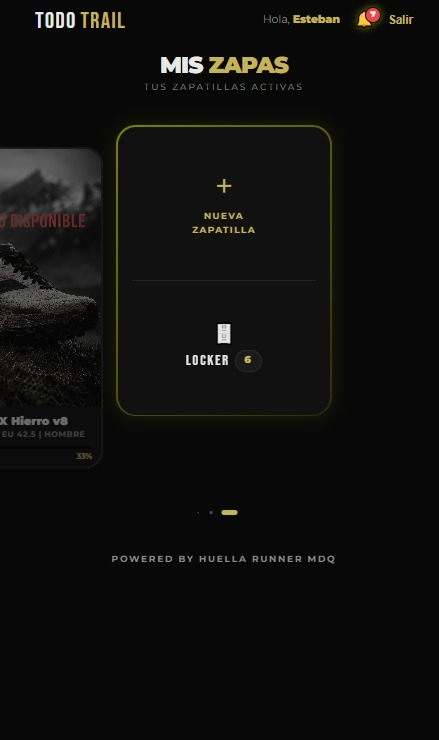
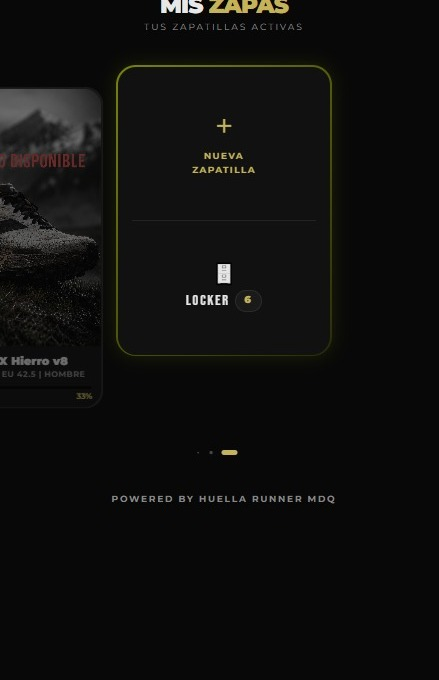
Actualiza capturas de la landing, saca "Todo Trail" que quedaba visible
Varias capturas usadas en landing.html eran de antes de las correcciones
de marca y todavía mostraban "TODO TRAIL" legible (logo, botón de
tienda, un mensaje de prueba en notificaciones):

- dashboard.jpg y login.jpg: borradas, ya no se usan.
- Nueva captura desgaste-zapatilla.jpg (limpia) las reemplaza en el
  header y en la sección "comunidad".
- onboarding.jpg, nueva-zapatilla.jpg y notificaciones.jpg: recortadas o
  reemplazadas para sacar el texto viejo.
- historial.jpg, locker.jpg, archivar.jpg y registrar-km.jpg: sin
  cambios, el logo ya queda borroso de fondo en esas.

HISTORIAL-CAMBIOS.md actualizado con el detalle.

diff --git a/landing.html b/landing.html
@@ -254,8 +254,8 @@
     </div>
 
     <div class="hero-shots">
-      <div class="phone phone--side phone--l"><img src="./assets/screenshots/login.jpg" alt="Login Huella Runner"></div>
-      <div class="phone phone--c"><img src="./assets/screenshots/dashboard.jpg" alt="Dashboard de zapatillas"></div>
+      <div class="phone phone--side phone--l"><img src="./assets/screenshots/historial.jpg" alt="Historial Huella Runner"></div>
+      <div class="phone phone--c"><img src="./assets/screenshots/desgaste-zapatilla.jpg" alt="Desgaste de zapatilla"></div>
       <div class="phone phone--side phone--r"><img src="./assets/screenshots/registrar-km.jpg" alt="Registrar kilómetros"></div>
     </div>
   </div>
@@ -361,7 +361,7 @@
         </div>
       </div>
       <figure class="shot">
-        <img src="./assets/screenshots/dashboard.jpg" alt="Comunidad de runners Huella Runner">
+        <img src="./assets/screenshots/desgaste-zapatilla.jpg" alt="Comunidad de runners Huella Runner">
       </figure>
     </div>
   </div>

diff --git a/HISTORIAL-CAMBIOS.md b/HISTORIAL-CAMBIOS.md
@@ -99,9 +99,28 @@ el GAS es la versión más nueva.
 
 - Branding "Todo Trail" reemplazado por "Huella Runner" (título, tag,
   texto de instalación en el footer).
+- Capturas de pantalla actualizadas — varias de las que se usaban en la
+  landing eran de antes de las correcciones de marca y todavía mostraban
+  "TODO TRAIL" bien legible (logo, botón de tienda, un mensaje de prueba
+  en notificaciones):
+  - `dashboard.jpg` y `login.jpg` se borraron (ya no se usan, eran las que
+    mostraban la marca vieja más grande y visible).
+  - Nueva captura `desgaste-zapatilla.jpg` (limpia) las reemplaza en el
+    header y en la sección "comunidad".
+  - `onboarding.jpg`, `nueva-zapatilla.jpg` y `notificaciones.jpg` se
+    recortaron o reemplazaron para sacar el texto viejo.
+  - `historial.jpg`, `locker.jpg`, `archivar.jpg` y `registrar-km.jpg` no
+    hacía falta tocarlas: el logo queda borroso de fondo ahí, no se lee.
 - **Pendiente / diferido a pedido explícito del fundador**: la sección
   `<span class="tag">Para Todo Trail</span>` y el texto "inteligencia
   comercial para Todo Trail" del pitch a sponsors siguen como están.
+- **Pendiente**: al fundador le quedaron 2 capturas del teléfono con la
+  versión vieja de la app todavía pegada en el GAS (pantalla "Mis Zapas"
+  vacía y el formulario "Nueva Zapatilla" con el campo Apodo) — no se
+  usaron acá porque ya no reflejan el código actual. Cuando repegue el
+  Index.html nuevo y saque fotos frescas, se pueden sumar más capturas
+  reales (login, notificaciones completas, etc.) para variar un poco las
+  que se repiten.
 
 ## Raíz del proyecto (index.html, manifest.json, service-worker.js)
 
